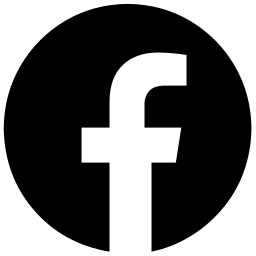
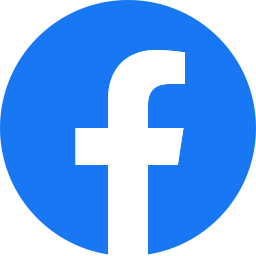
Añadido social y cambios en responsive

diff --git a/style.css b/style.css
@@ -20,7 +20,10 @@ body {
     align-items: center;
     padding: 1.5rem;
     height: 3vh;
-
+    position: sticky; /* Hace que el nav se quede pegado al hacer scroll */
+    top: 0; /* Fija la posición en la parte superior de la ventana */
+    background-color: #fff; /* Añade color de fondo para que se vea sobre el contenido */
+    z-index: 10; /* Asegura que esté encima de otros elementos */
 }
 
 .navegation-menu-left {
@@ -241,15 +244,45 @@ body {
     justify-content: center;
     align-items: center;
     flex-direction: column;
+    padding: 10px 10px 20px 10px;
 }
 
 .find-us-map {
     width: 60%;
 }
 
+.find-us-social {
+    margin-top: 3vh;
+    display: flex;
+    justify-content: center;
+    align-items: center;
+    gap: 3vw;
+}
+
+.find-us-social-item {
+    background-color: white;
+    display: flex;
+    gap: 10px;
+    align-items: center;
+    justify-content: center;
+    padding: 15px;
+    border-radius: 50px;
+    width: 30%;
+}
+
+.find-us-social-item p {
+    font-size: 1rem;
+}
+
+.find-us-social-item img {
+    width: 4vw;
+}
 
 
-@media (max-width: 768px) {
+
+
+
+@media (max-width: 900px) {
     .about-us {
         flex-direction: column;
         padding: 0 5vw;
@@ -269,6 +302,26 @@ body {
         width: 100%;
         height: auto;
     }
+
+    .find-us-social {
+        gap: 3px;
+        flex-direction: column;
+        align-items: start;
+    }
+
+    .find-us-social-item {
+        justify-content: start;
+        width: 90%;
+    }
+
+    .find-us-social-item p {
+        font-size: 1.2rem;
+    }
+
+    .find-us-social-item img {
+        width: 10vw;
+    }
+
 }
 
 

diff --git a/index.html b/index.html
@@ -91,16 +91,24 @@
         <iframe src="https://www.google.com/maps/embed?pb=!1m18!1m12!1m3!1d3756.3375118881377!2d-0.6597382236573348!3d38.11373929256146!2m3!1f0!2f0!3f0!3m2!1i1024!2i768!4f13.1!3m3!1m2!1s0xd63adb7f42839b7%3A0xd1b42d65f6955258!2sMayayo%20Garden!5e1!3m2!1ses!2ses!4v1731193324276!5m2!1ses!2ses" width="600" height="450" style="border:0;" allowfullscreen="" loading="lazy" referrerpolicy="no-referrer-when-downgrade" class="find-us-map"></iframe>
 
         <div class="find-us-social">
-            
+
+            <div class="find-us-social-item">
+                <a href="https://www.facebook.com/mayayo.garden/"><img src="img/facebook-icon.png" alt=""></a>
+                <p><a href="https://www.facebook.com/mayayo.garden/">facebook.com/mayayo.garden/</a></p>
+            </div>
+
+            <div class="find-us-social-item">
+                <img src="img/mail-icon.png" alt="">
+                <p>mayayogarden@gmail.com</p>
+            </div>
+
+            <div class="find-us-social-item">
+                <img src="img/phone-icon.png" alt="">
+                <p>+34 966 724 919</p>
+            </div>
+
         </div>
    </section>
-
-
-
-    <footer id="idContact">
-
-    </footer>
-    
 
     <script src="scripts/translations.js"></script>
 </body>
